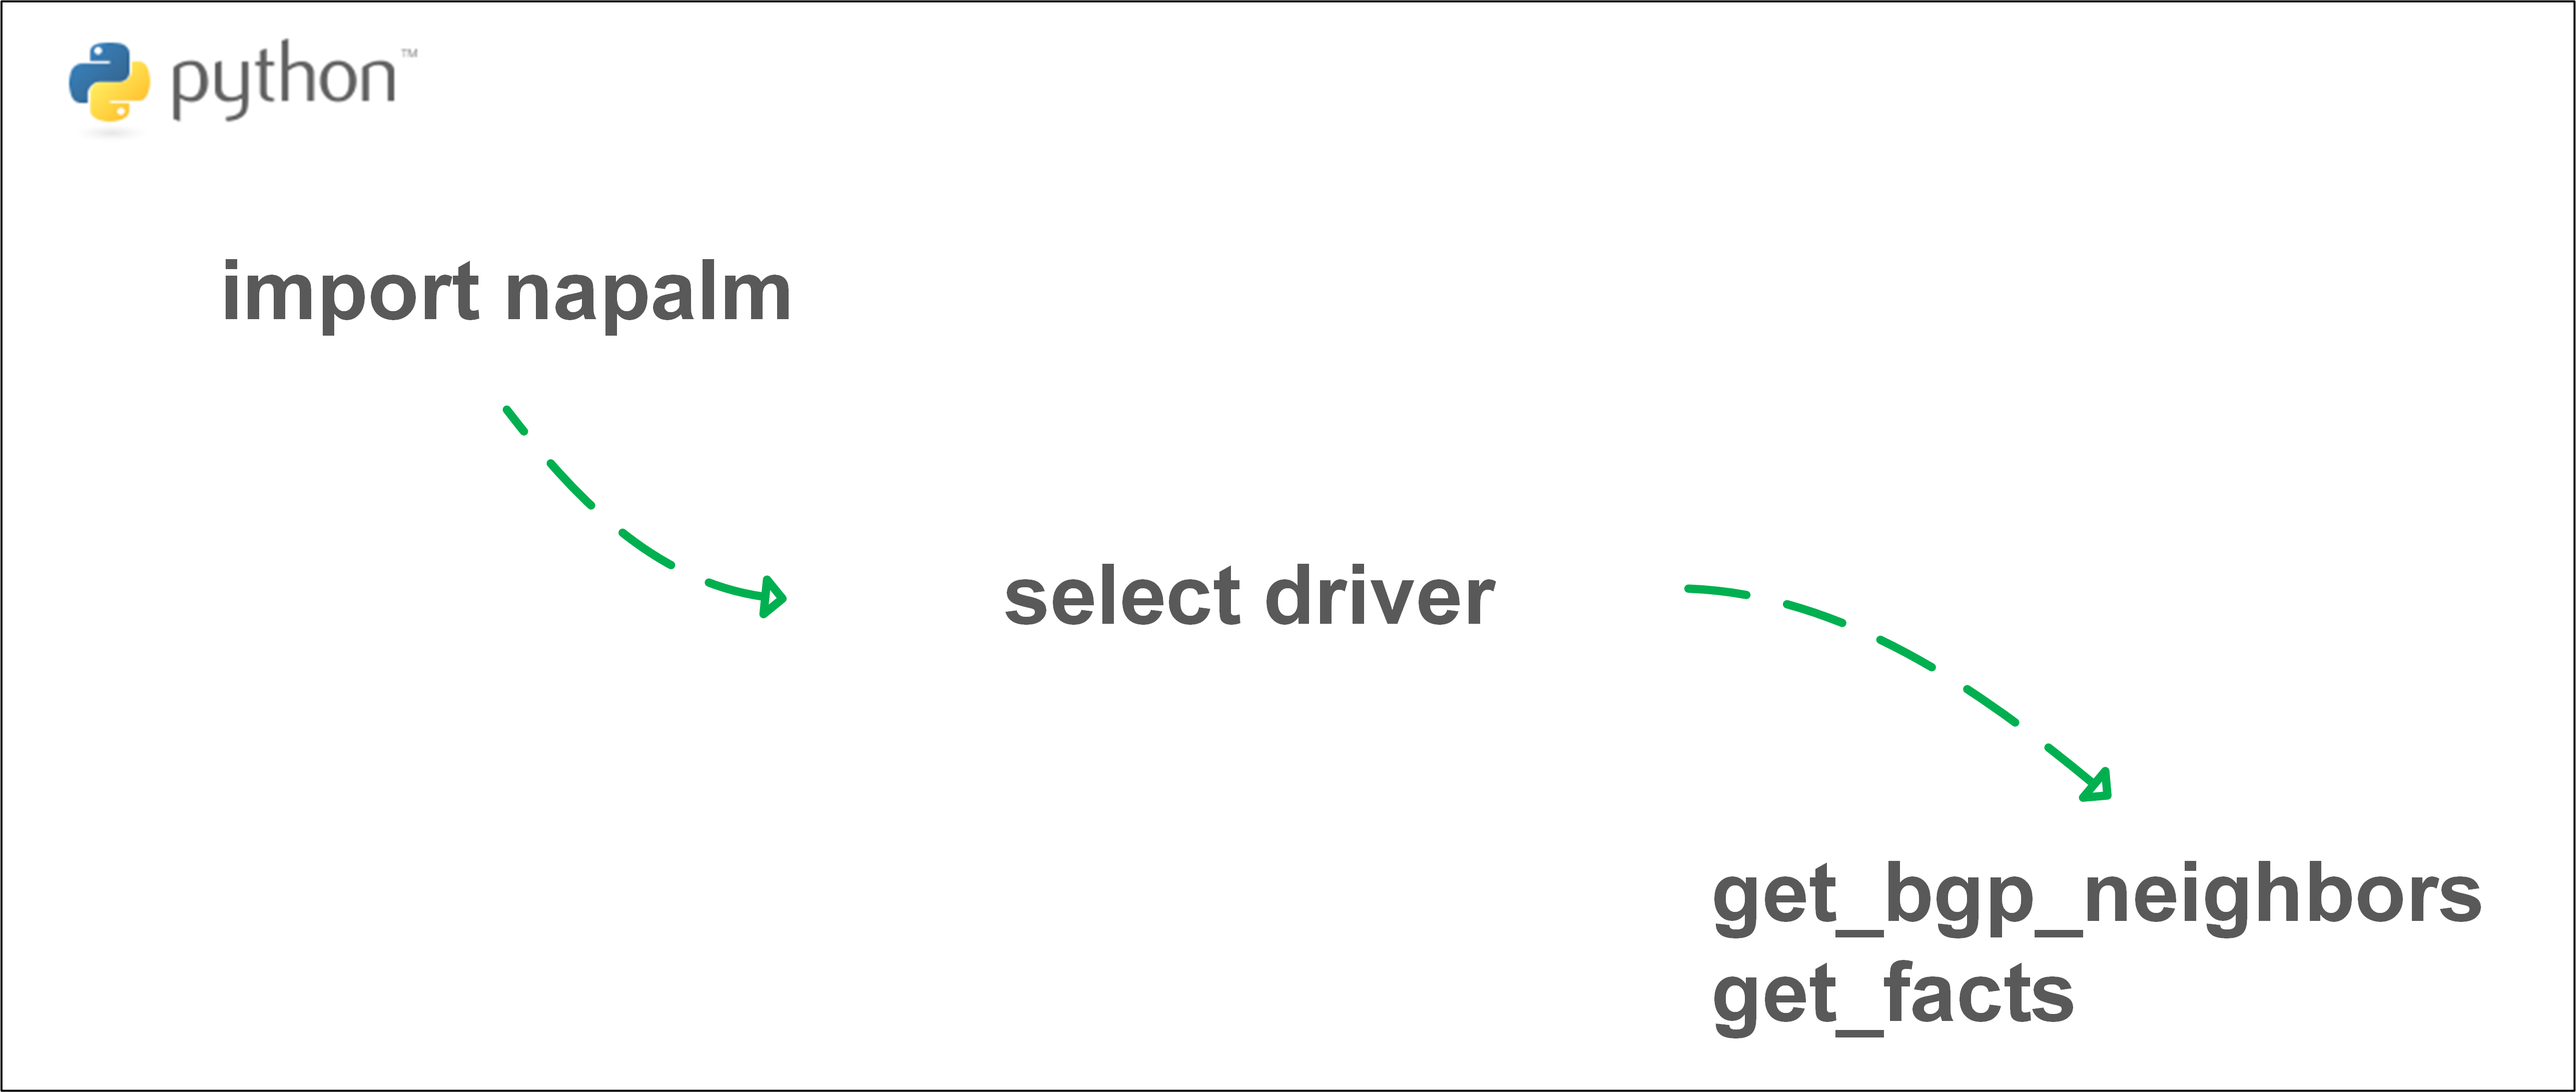
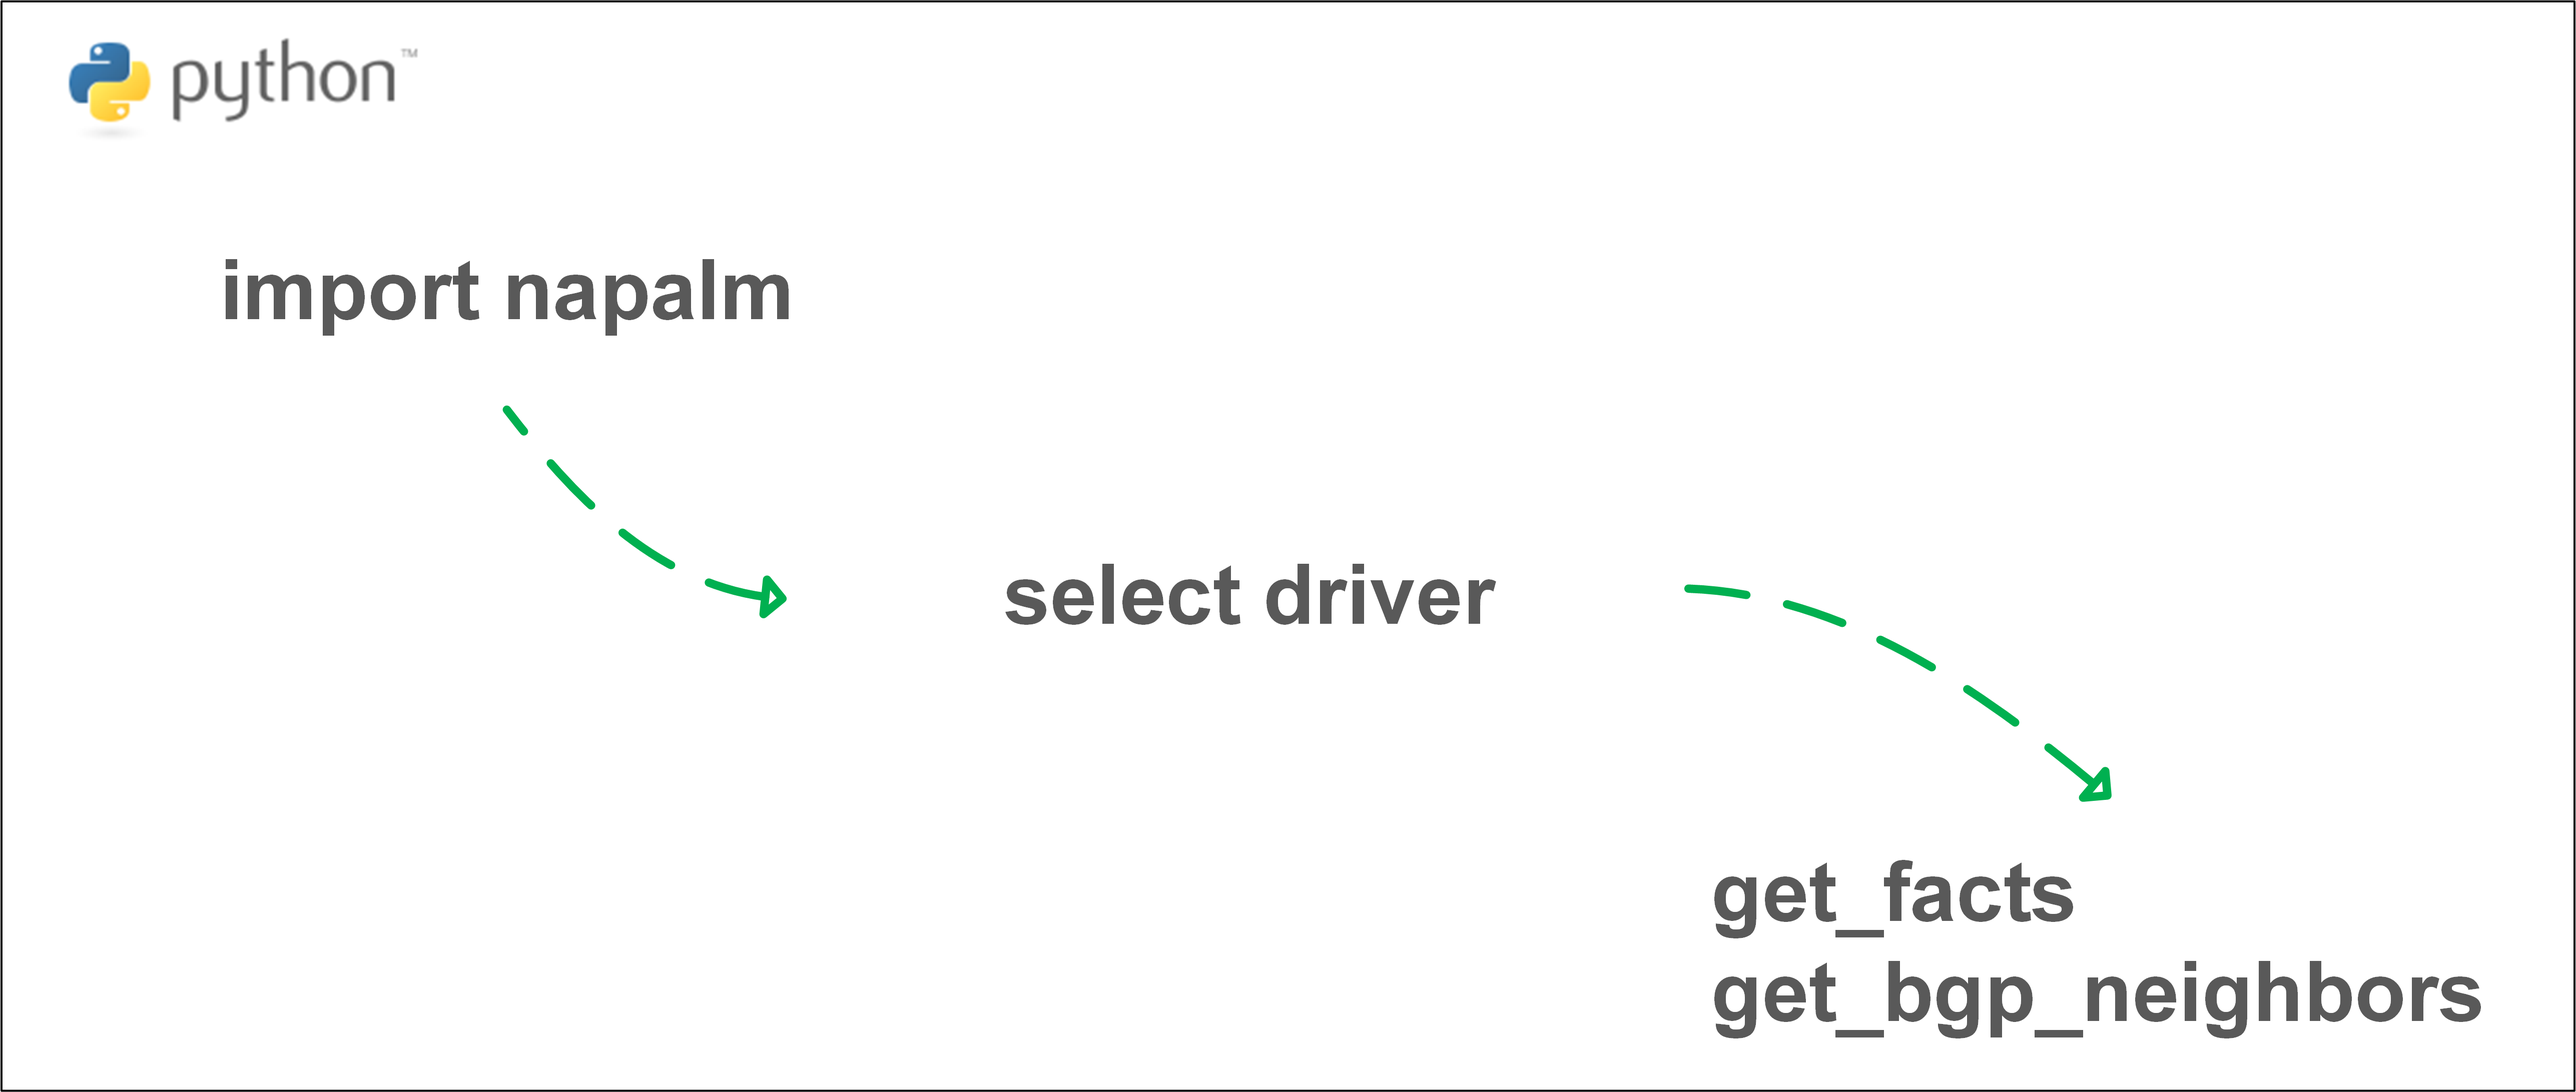
change

Changed region(s): [[0.7148, 0.7787, 0.9635, 0.9656]]

diff --git a/_posts/napalm.md b/_posts/napalm.md
@@ -55,10 +55,16 @@ NAPALM in a Python script
 =========================
 
 NAPALM provides you with several basic functions that you can use to interact with different vendors. Let's look at an example where we retrieve information from a Juniper and a Cisco and use NAPALM to do the following:
-- connect to a device
 - display information that describes the device
 - display information about the BGP neighbors
-- close the connection to the device
+
+Doing this using NAPALM is pretty easy.
+
+<p align="center" >
+  <img src="https://github.com/saidvandeklundert/saidvandeklundert.github.io/blob/napalm/img/napalm_information_example.png">
+</p>
+
+Pretty much, the only thing we need to do is displayed above. First, we need to select the proper driver. After that, we call the `getters` we are interested in. In this case, we are going for `get_facts` and `get_bgp_neighbors`.
 
 The Python required to perform the above when connection to a Juniper device will be something like the following:
 
@@ -74,10 +80,6 @@ device.close()
 ```
 
 Notice how we only see NAPALM references in this Python and no PyEZ. 
-
-<p align="center" >
-  <img src="https://github.com/saidvandeklundert/saidvandeklundert.github.io/blob/napalm/img/napalm_information_example.png">
-</p>
 
 When connecting to a Juniper device using NAPALM, you need to use the `junos` driver. This will in turn reference the PyEZ backend library (`junos-eznc`).This library uses NETCONF to communicate with the Juniper XML API. 
 
